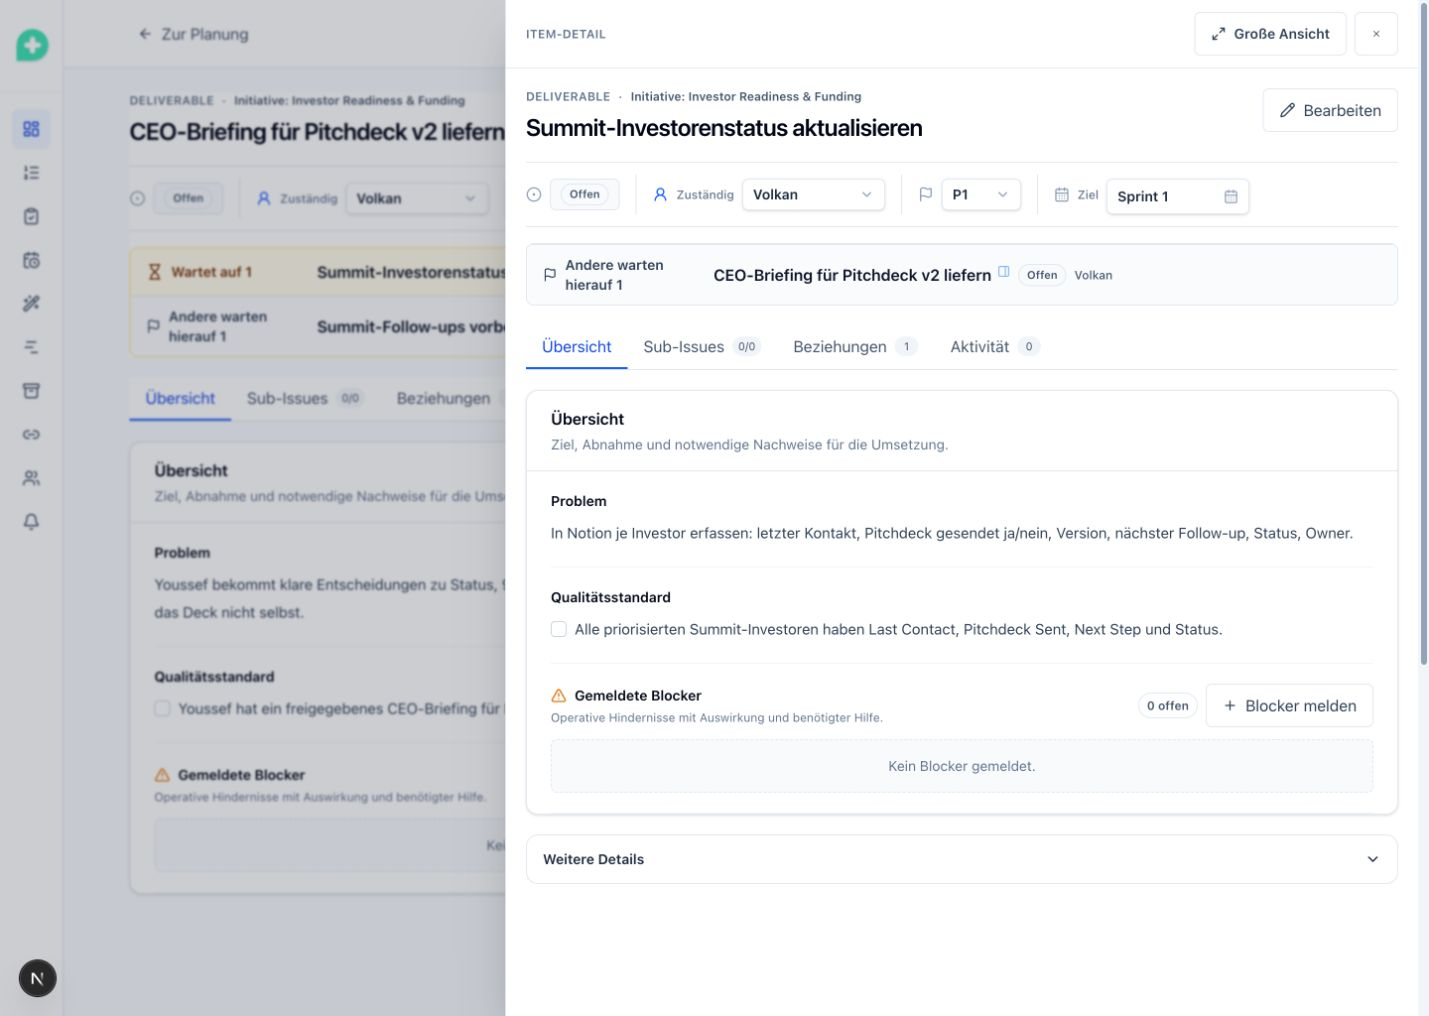
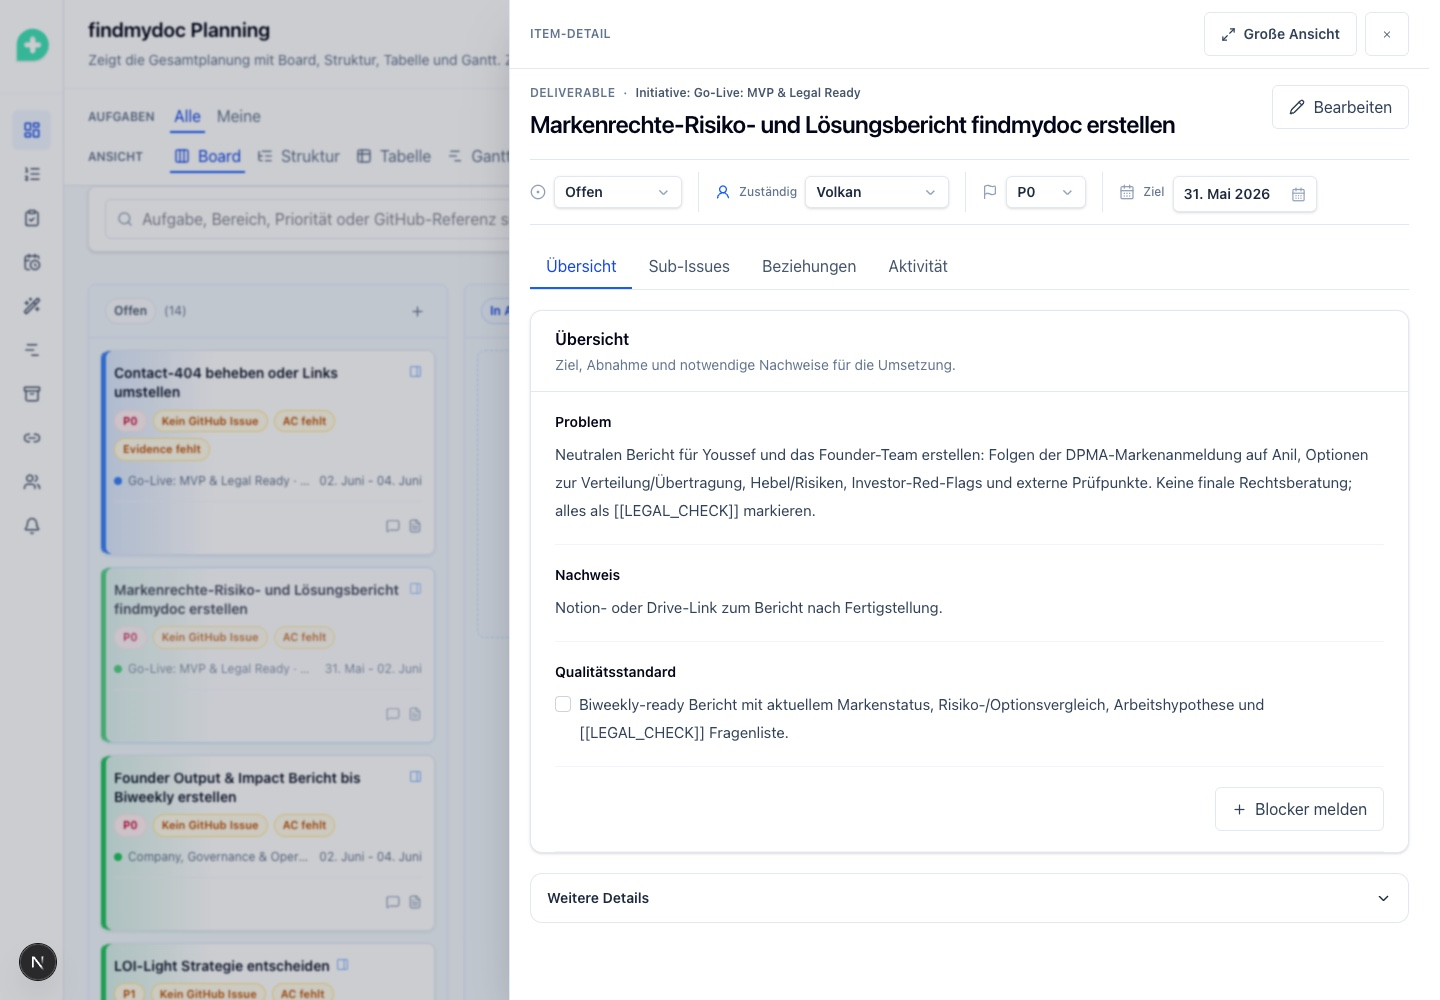
fix: finalize item detail loading state

diff --git a/src/features/tasks/hooks/use-task-detail-data-loader.ts b/src/features/tasks/hooks/use-task-detail-data-loader.ts
@@ -1,6 +1,6 @@
 "use client";
 
-import { useEffect, useRef, useState, type TransitionStartFunction } from "react";
+import { useEffect, useState, type TransitionStartFunction } from "react";
 import { requestTaskDetailData } from "@/features/tasks/model/task-api-client";
 import { mergeTaskDetailData } from "@/features/tasks/model/task-detail-data-merge";
 import type { BrowserApiClient } from "@/lib/browser-api-client";
@@ -21,13 +21,13 @@ export function useTaskDetailDataLoader({
   source,
   startTransition,
 }: UseTaskDetailDataLoaderOptions) {
-  const loadedTaskIdsRef = useRef<Set<string>>(new Set());
+  const [loadedTaskIds, setLoadedTaskIds] = useState<Set<string>>(() => new Set());
   const [loadState, setLoadState] = useState({ taskId: "", loading: false, error: "" });
   const selectedTaskId = selectedTask?.id || "";
 
   useEffect(() => {
     if (!selectedTaskId) return;
-    if (source !== "supabase" || loadedTaskIdsRef.current.has(selectedTaskId)) {
+    if (source !== "supabase" || loadedTaskIds.has(selectedTaskId)) {
       return;
     }
 
@@ -43,7 +43,12 @@ export function useTaskDetailDataLoader({
         if (!response.ok || !body?.detailData) throw new Error(body?.error || "Task-Details konnten nicht geladen werden.");
 
         applyPlanningDataUpdate((current) => mergeTaskDetailData(current, selectedTaskId, body.detailData!));
-        loadedTaskIdsRef.current.add(selectedTaskId);
+        setLoadedTaskIds((current) => {
+          if (current.has(selectedTaskId)) return current;
+          const next = new Set(current);
+          next.add(selectedTaskId);
+          return next;
+        });
         setLoadState({ taskId: selectedTaskId, loading: false, error: "" });
       } catch (caught) {
         if (!active) return;
@@ -58,13 +63,13 @@ export function useTaskDetailDataLoader({
     return () => {
       active = false;
     };
-  }, [apiClient, applyPlanningDataUpdate, selectedTaskId, source, startTransition]);
+  }, [apiClient, applyPlanningDataUpdate, loadedTaskIds, selectedTaskId, source, startTransition]);
 
   const selectedStateMatches = loadState.taskId === selectedTaskId;
   const selectedTaskNeedsLoad = Boolean(
     selectedTaskId
     && source === "supabase"
-    && !loadedTaskIdsRef.current.has(selectedTaskId),
+    && !loadedTaskIds.has(selectedTaskId),
   );
 
   return {